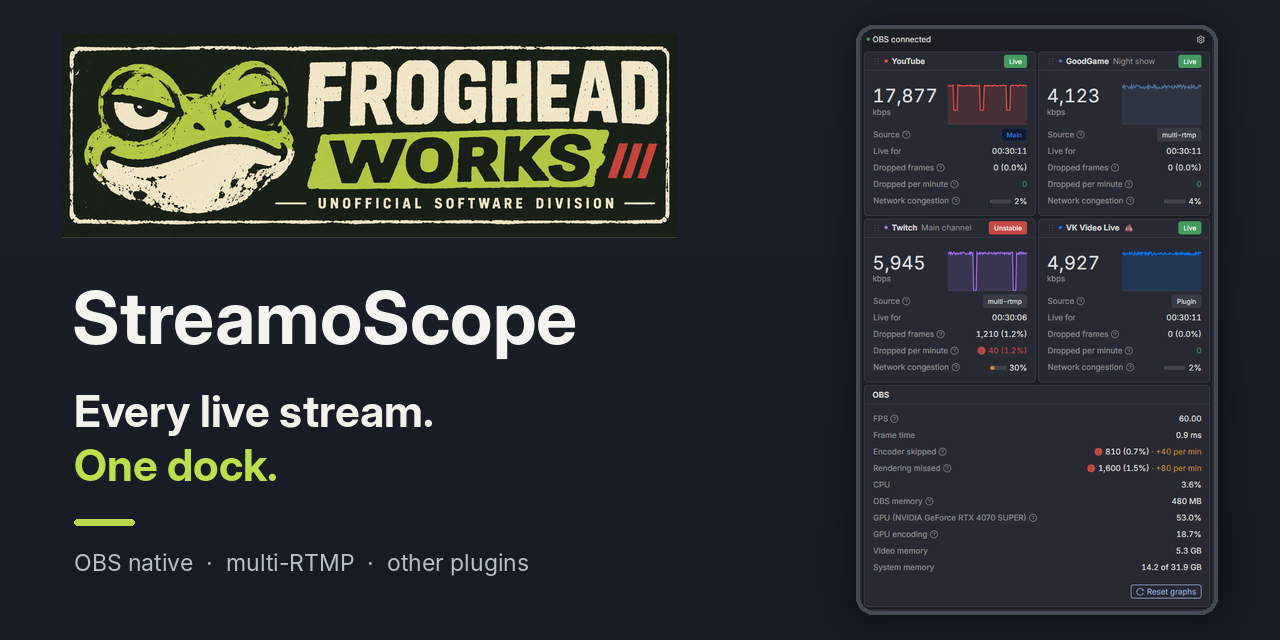
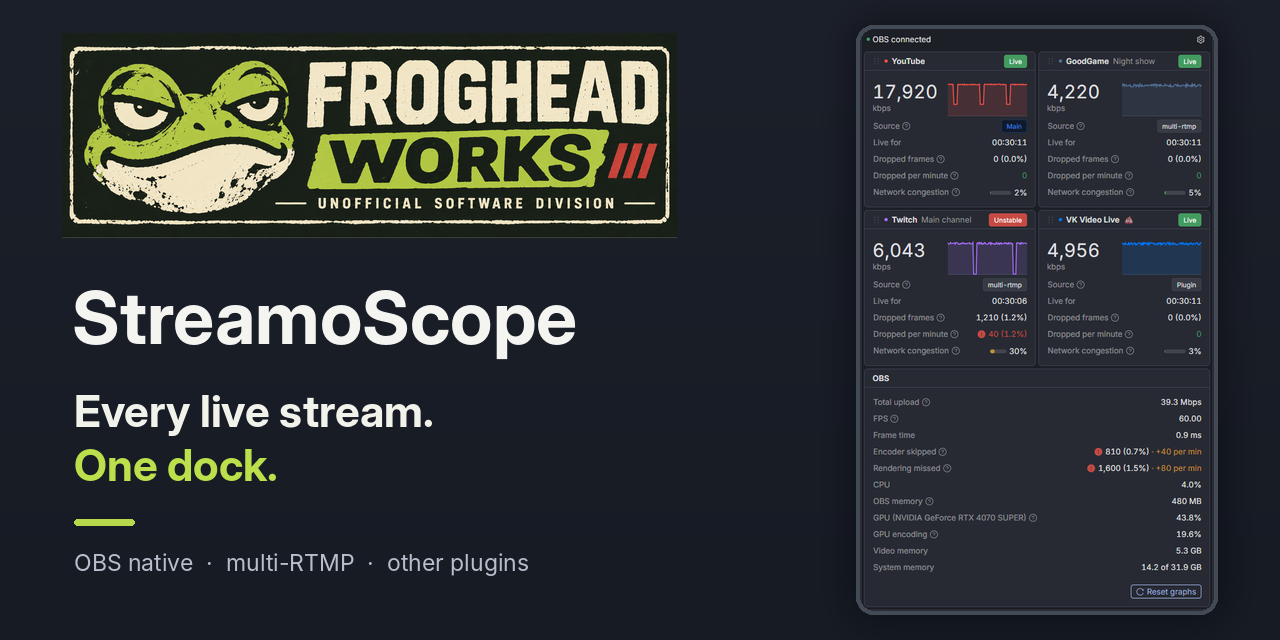
Write the 0.14.0 release notes and retake the screenshots
The OBS card grew a Total upload row, so the wide shot is now 953x506
and the social preview carries the new narrow shot. The release skill
keeps the capture and preview scripts, so the next retake starts from
them.

Changed region(s): [[0.6562, 0.125, 0.9375, 0.5938], [0.9062, 0.625, 0.9375, 0.6562], [0.6875, 0.625, 0.7188, 0.6562]]

diff --git a/.claude/skills/streamoscope-release/compose-social-preview.py b/.claude/skills/streamoscope-release/compose-social-preview.py
@@ -1,0 +1,28 @@
+import sys
+
+from PIL import Image, ImageChops
+
+preview_path, old_narrow_path, new_narrow_path, output_path = sys.argv[1:5]
+
+preview = Image.open(preview_path).convert('RGB')
+old_narrow = Image.open(old_narrow_path).convert('RGB')
+new_narrow = Image.open(new_narrow_path).convert('RGB')
+
+box = (860, 29, 1214, 611)
+size = (box[2] - box[0], box[3] - box[1])
+region = preview.crop(box)
+old_scaled = old_narrow.resize(size, Image.LANCZOS)
+new_scaled = new_narrow.resize(size, Image.LANCZOS)
+
+difference = ImageChops.difference(region, old_scaled).convert('L')
+mask = difference.point(lambda value: 255 if value <= 8 else 0)
+
+composed_region = Image.composite(new_scaled, region, mask)
+result = preview.copy()
+result.paste(composed_region, box[:2])
+result.save(output_path, optimize=True)
+
+outside = ImageChops.difference(preview, result)
+outside.paste((0, 0, 0), box)
+print('changed pixels outside the dock box:', outside.convert('L').getbbox())
+print('saved', output_path, result.size)

diff --git a/.claude/skills/streamoscope-release/SKILL.md b/.claude/skills/streamoscope-release/SKILL.md
@@ -19,10 +19,10 @@ Update this skill in the same change whenever the conversation shows it is outda
 
 - Run `npm test` once: it already includes the full `npm run lint` and unit tests. Do not run lint separately again unless a subsequent change needs it. Keep mandatory commit hooks enabled; the release workflow runs its own checks.
 - If the dock looks different: retake the README screenshots and update the matching README text. Capture sizes are not the display sizes and not the 300/670 px check widths:
-  - `docs/images/stats-wide.png` - viewport 953x482, the main card at **Live for 00:10:25**, shown in README at 700 px;
+  - `docs/images/stats-wide.png` - viewport 953x506 (482 before 0.14.0 added the **Total upload** row), the main card at **Live for 00:10:25**, shown in README at 700 px;
   - `docs/images/stats-narrow.png` - viewport 536x881, at **Live for 00:30:11**, shown at 280 px.
-  - How: `npm run build:prod`, serve `build/` with `dock-prod`, headless Edge through CDP with `deviceScaleFactor: 1`. Before loading, put into localStorage `streamoscope.settings` with `isMockEnabled: true`, `language: 'en'`, `isAutoUpdateEnabled: false`. Hide the mock banner with an injected style `.ant-alert { display: none !important; }`. The shots show exactly four platform cards (YouTube, GoodGame, Twitch, VK Video Live) and the whole OBS card: the mocks have more, so an injected script with a `MutationObserver` hides the grid item of every card whose `.ant-card-head` contains **Copy of main** or **Which platform?** (walk up from `.ant-card` to the child of the `display: grid` parent). At these sizes the four cards and the OBS card fill the frame exactly; if the mocks change, check `document.documentElement.scrollHeight` against the frame height. Do not wait in real time: `Emulation.setVirtualTimePolicy` with `policy: 'advance'` and a budget, read the YouTube **Live for** from the page, then step 1 s until it matches and capture right away. The Twitch **Dropped per minute** row should carry the red icon; the mock is random, retake if it does not.
-  - Check the result: exact size, no banner, full graphs, no personal data. `social-preview.png` keeps everything but the dock picture.
+  - How: `npm run build:prod`, serve `build/` with `dock-prod`, then `node capture-dock.mjs http://127.0.0.1:3063/ <absolute Windows folder> <width> <height> <debug port> <Live for> <file name>` from this skill folder, once per shot (for example `953 506 9302 00:10:25 stats-wide.png`). It prints the reached time, the Twitch icon, `scrollHeight` and the visible card heads. The folder must be an absolute Windows path (`cygpath -w`), and the script runs outside the sandbox: otherwise Edge does not open its debug port. If a run is cut short, stop only the Edge that listens on that debug port, never every `msedge.exe`: the user's own Edge would go with it. What the script does: headless Edge through CDP with `deviceScaleFactor: 1`. Before loading, put into localStorage `streamoscope.settings` with `isMockEnabled: true`, `language: 'en'`, `isAutoUpdateEnabled: false`. Hide the mock banner with an injected style `.ant-alert { display: none !important; }`. The shots show exactly four platform cards (YouTube, GoodGame, Twitch, VK Video Live) and the whole OBS card: the mocks have more, so an injected script with a `MutationObserver` hides the grid item of every card whose `.ant-card-head` contains **Copy of main** or **Which platform?** (walk up from `.ant-card` to the child of the `display: grid` parent). At these sizes the four cards and the OBS card fill the frame exactly; if the mocks change, check `document.documentElement.scrollHeight` against the frame height. Do not wait in real time: `Emulation.setVirtualTimePolicy` with `policy: 'advance'` and a budget, read the YouTube **Live for** from the page, then step 1 s until it matches and capture right away. The Twitch **Dropped per minute** row should carry the red icon; the mock is random, retake if it does not.
+  - Check the result: exact size, no banner, full graphs, no personal data. `social-preview.png` keeps everything but the dock picture: `python compose-social-preview.py <old preview> <old narrow shot> docs/images/stats-narrow.png <output>` puts the new narrow shot into the box `(860, 29, 1214, 611)`, with the old files taken by `git show HEAD:docs/images/...`, and must print `changed pixels outside the dock box: None`. GitHub does not read the file from the repository: the user uploads it in the repository settings (Social preview).
   - The test stand screenshot (`npm run stand -- screenshot`) is 420x900 and only for checking the stand, not for README. Do not touch the user's OBS for screenshots.
 - Check the browser at 300 and 670 px before committing.
 - In Codex, use its available browser tools instead of Claude-only preview tools. Resolve this skill directory explicitly instead of relying on `CLAUDE_SKILL_DIR`; keep logs and downloaded verification artifacts in the current chat's scratch directory. Monitor CI with one bounded local process and a log, not repeated model wake-ups.

diff --git a/docs/release-notes/0.14.0.md b/docs/release-notes/0.14.0.md
@@ -1,0 +1,17 @@
+> [!IMPORTANT]
+> **Coming from 0.10.0 or older, and an update said the new version didn't start and went back? Run the installer once.** As in 0.10.1 and later: on some PCs OBS opens the dock later than old versions were willing to wait. Close OBS and run [streamoscope-setup-0.14.0.exe](https://github.com/tjnk24/streamoscope/releases/download/v0.14.0/streamoscope-setup-0.14.0.exe) over your installation: it installs without that check. Your settings, the journal and OBS stay as they are. If your updates go through fine, skip it.
+
+The workshop got tired of adding up bitrates on a napkin and let the dock do the sums.
+
+- **Total upload.** With two or more streams live, the OBS card opens with **Total upload**: the bitrate of every live stream added up, in Mbps. Your internet speed test speaks Mbps too, so hold the two side by side and keep at least a third spare. With a single stream the row stays hidden: its card already says the same. Not needed? Untick it in **Settings → Display**, like any other row.
+- The last row of the OBS card no longer stretches across both columns on a wide dock: its value stays next to its name.
+
+---
+
+> [!IMPORTANT]
+> **Обновляетесь с 0.10.0 или старше, и обновление написало, что новая версия не запустилась, и вернуло прежнюю? Запустите установщик один раз.** Как и начиная с 0.10.1: на некоторых ПК OBS открывает док позже, чем готовы были ждать старые версии. Закройте OBS и запустите поверх установленной программы [streamoscope-setup-0.14.0.exe](https://github.com/tjnk24/streamoscope/releases/download/v0.14.0/streamoscope-setup-0.14.0.exe): он ставит версию без этой проверки. Настройки, журнал и OBS останутся как есть. Если обновления у вас проходят нормально, этот шаг не нужен.
+
+Мастерская устала складывать битрейты на салфетке и поручила это панели.
+
+- **Отдаётся всего.** Когда в эфире две трансляции и больше, карточка OBS начинается со строки **Отдаётся всего**: сумма битрейта всех трансляций в эфире, в Мбит/с. Speedtest тоже показывает скорость в Мбит/с, так что сравнивайте напрямую и держите запас хотя бы в треть. С одной трансляцией строка не показывается: её карточка и так говорит то же самое. Не нужна — снимите галочку в **Настройки → Отображение**, как у любой другой строки.
+- Последняя строка карточки OBS на широкой панели больше не растягивается на обе колонки: значение стоит рядом с названием.

diff --git a/README.md b/README.md
@@ -38,7 +38,7 @@ Running multiple streams from one OBS instance? You shouldn't have to open a sep
 **No plugin loyalty.** 🤷
 
 <p align="center">
-  <img src="docs/images/stats-wide.png" width="700" alt="StreamoScope wide dock: four simultaneous streams, obs-multi-rtmp streams signed with their names, live bitrate, dropped-frame statistics, the OBS card and red hints on the rows in trouble">
+  <img src="docs/images/stats-wide.png" width="700" alt="StreamoScope wide dock: four simultaneous streams, obs-multi-rtmp streams signed with their names, live bitrate, dropped-frame statistics, the OBS card with the total upload and red hints on the rows in trouble">
 </p>
 <p align="center"><sub>Four streams, four sets of stats, one less reason to panic. 😌</sub></p>
 
